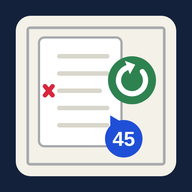
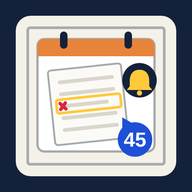
Snap a whole page, then box each mistake
- Add mode now takes one photo of the whole page and opens a crop
  screen: drag the yellow box or its corners (or draw a new box), with a
  live preview at the size it will show in review to check the text is
  readable. Box several mistakes on the same page in a row; picking
  several photos steps through them one by one.
- The page photo is stored once in a new pages store and shared by its
  cards; review can switch between the boxed part and the whole page.
  Deleting the last card of a page removes the page; backup and restore
  include pages; storage usage counts them.
- New icon combining the series board with the calendar, the boxed
  mistake on a page and the reminder bell.

Claude-Session: https://claude.ai/code/session_01Fix7dRGmohFDHfCyLWt37g

Changed region(s): [[0.1875, 0.1562, 0.8438, 0.8438]]

diff --git a/index.html b/index.html
@@ -127,6 +127,28 @@ body[data-mode="review"] #dockReview,body[data-mode="add"] #dockAdd,body[data-mo
 .rv-dock .btn{flex:1;min-height:58px;flex-direction:column;gap:0;font-size:17px}
 .rv-dock .btn small{font-size:11px;font-weight:500;opacity:.85}
 
+/* 追加：ページを撮る */
+.shotbig{display:flex;flex-direction:column;align-items:center;justify-content:center;gap:6px;min-height:150px;border:2px dashed var(--line);border-radius:12px;background:var(--bg);color:var(--ink);text-align:center;padding:12px}
+.shotbig .ic{width:40px;height:40px;color:var(--accent)}
+.shotbig b{font-size:17px}
+.shotbig small{font-size:12px;color:var(--muted);line-height:1.5}
+label.btn{cursor:pointer}
+/* 切り抜き */
+#cropper{position:fixed;inset:0;background:var(--bg);z-index:45;display:none;flex-direction:column;padding:calc(env(safe-area-inset-top,0px) + 8px) 0 0}
+#cropper.on{display:flex}
+.cropArea{flex:1;min-height:0;position:relative;margin:4px 6px 0;background:#13241A;border-radius:12px;overflow:hidden;touch-action:none}
+#cropImg{position:absolute;user-select:none;-webkit-user-drag:none;pointer-events:none}
+#cropBox{position:absolute;border:2px solid #FFE14D;box-shadow:0 0 0 9999px rgba(10,20,14,.55);touch-action:none;cursor:move}
+#cropBox .h{position:absolute;width:30px;height:30px;touch-action:none}
+#cropBox .h::after{content:"";position:absolute;width:14px;height:14px;background:#FFE14D;border-radius:4px;left:8px;top:8px}
+#cropBox .tl{left:-15px;top:-15px}#cropBox .tr{right:-15px;top:-15px}#cropBox .bl{left:-15px;bottom:-15px}#cropBox .br{right:-15px;bottom:-15px}
+.cropPrev{margin:8px 10px 0;background:var(--panel);border:1px solid var(--line);border-radius:12px;padding:8px}
+.prevHead{display:flex;align-items:baseline;gap:8px;font-size:13px;margin-bottom:6px}
+#cropInfo{margin-left:auto;font-size:12px;color:var(--muted);text-align:right}
+#cropInfo.warn{color:var(--danger);font-weight:700}
+.prevBox{max-height:22vh;overflow:auto;border-radius:6px;background:#fff;border:1px solid var(--line)}
+#cropCanvas{display:block;width:100%}
+#cropMemo{width:100%;margin-top:8px;border:1px solid var(--line);background:var(--bg);border-radius:10px;padding:9px 10px;font-size:16px;color:var(--ink)}
 /* シート・ダイアログ */
 .overlay{position:fixed;inset:0;background:rgba(10,30,18,.45);display:none;align-items:flex-end;justify-content:center;z-index:80}
 .overlay.on,.overlay.show{display:flex}
@@ -193,17 +215,14 @@ body[data-mode="review"] #dockReview,body[data-mode="add"] #dockAdd,body[data-mo
   <!-- 追加 -->
   <section data-pane="add">
     <div class="panel">
-      <div class="shot">
-        <label id="qLabel"><i class="ic" data-ic="camera"></i><span data-i="qPhoto"></span><input type="file" id="qFile" accept="image/*" capture="environment"></label>
-        <label id="aLabel"><i class="ic" data-ic="bulb"></i><span data-i="aPhoto"></span><input type="file" id="aFile" accept="image/*" capture="environment"></label>
-      </div>
+      <label class="shotbig" for="camFile"><i class="ic" data-ic="camera"></i><b data-i="shootPage"></b><small data-i="shootPageD"></small></label>
+      <input type="file" id="camFile" accept="image/*" capture="environment" hidden>
       <div class="field"><label for="subj" data-i="subject"></label>
         <input id="subj" list="subjList" autocomplete="off"><datalist id="subjList"></datalist>
         <div class="chips" id="subjChips"></div>
       </div>
-      <div class="field"><label for="memo" data-i="memo"></label><textarea id="memo" rows="2"></textarea></div>
     </div>
-    <p class="tip" data-i="addNote"></p>
+    <p class="tip" data-i="tipAdd"></p>
   </section>
 
   <!-- 一覧 -->
@@ -225,7 +244,7 @@ body[data-mode="review"] #dockReview,body[data-mode="add"] #dockAdd,body[data-mo
   </div>
   <div class="dockbar" id="dockAdd">
     <label class="btn"><i class="ic" data-ic="image"></i><span data-i="bulkShort"></span><input type="file" id="bulkFile" accept="image/*" multiple hidden></label>
-    <button class="btn strong" id="saveCard" disabled><i class="ic" data-ic="plus"></i><span data-i="saveShort"></span></button>
+    <label class="btn primary" for="camFile"><i class="ic" data-ic="camera"></i><span data-i="shootShort"></span></label>
   </div>
   <div class="dockbar" id="dockList">
     <select id="filter" aria-label="filter"></select>
@@ -247,6 +266,29 @@ body[data-mode="review"] #dockReview,body[data-mode="add"] #dockAdd,body[data-mo
   <div class="rv-dock"><div class="dockbar">
     <button class="btn ng" id="rvNg"><span data-i="ng"></span><small id="rvNgSub"></small></button>
     <button class="btn primary" id="rvOk"><span data-i="ok"></span><small id="rvOkSub"></small></button>
+  </div></div>
+</div>
+
+<!-- 切り抜き -->
+<div id="cropper">
+  <div class="rv-top">
+    <button class="btn icon" id="cropCancel" aria-label="close"><i class="ic" data-ic="x"></i></button>
+    <b data-i="cropTitle"></b><span class="num" id="cropCount" style="color:var(--muted)"></span>
+    <span class="sp"></span>
+    <button class="btn" id="cropRetake"><i class="ic" data-ic="camera"></i><span data-i="retake"></span></button>
+  </div>
+  <div class="cropArea" id="cropArea">
+    <img id="cropImg" alt="">
+    <div id="cropBox"><span class="h tl" data-h="tl"></span><span class="h tr" data-h="tr"></span><span class="h bl" data-h="bl"></span><span class="h br" data-h="br"></span></div>
+  </div>
+  <div class="cropPrev">
+    <div class="prevHead"><b data-i="cropPrev"></b><span id="cropInfo"></span></div>
+    <div class="prevBox"><canvas id="cropCanvas"></canvas></div>
+    <input id="cropMemo" data-ph="memoPh" autocomplete="off">
+  </div>
+  <div class="rv-dock"><div class="dockbar">
+    <button class="btn" id="cropDone"><span data-i="cropDone"></span></button>
+    <button class="btn primary" id="cropAdd"><i class="ic" data-ic="plus"></i><span data-i="cropAdd"></span></button>
   </div></div>
 </div>
 
@@ -319,7 +361,7 @@ document.querySelectorAll("[data-ic]").forEach(el=>{ el.innerHTML=ico(el.dataset
 
 /* ===== 多言語 ===== */
 const I18N={
- ja:{mReview:"復習",mAdd:"追加",mList:"一覧",qMenu:"写真の画質",qStdShort:"標準",qHighShort:"高画質",qEcoShort:"省容量",langLbl:"言語",helpLong:"使い方・このアプリについて",support:"このアプリを応援する",extraShort:"ぜんぶ見直す",bulkShort:"写真からまとめて",saveShort:"保存して追加",listReview:"この中で見直す",tipReview:"「ぜんぶ見直す」は予定に影響しません。間違えた直後の確認や、テスト前の総まとめに。",tipList:"写真をタップすると、科目やメモの直し・今すぐ復習・削除ができます。下のバーで科目ごとに絞り込めます。",todayText:"今日は{n}件です。写真を見て、まず自分で思い出してから答えを確認しましょう。",todayNone:"今日の復習はありません。間違えたページを「追加」から撮っておきましょう。",undone:"1つ前の採点を取り消しました",undoNone:"取り消せる採点がありません",delMasteredShort:"習得済みを削除（{n}件）",backup:"バックアップを保存",restore:"バックアップから復元",icsDaily:"毎日の復習リマインダーを登録",icsDates:"復習予定日だけ登録（今後30日）",badge:"ホーム画面アイコンに件数を表示",bulk:"写真ライブラリからまとめて追加",noCards:"まだ登録がありません。左上の「追加」から、間違えたページを撮りましょう。",how:"<b>① 追加</b>：間違えた問題のページを撮ります（答えのページも撮っておくと便利）。<br><b>② 復習</b>：決まった間隔（1日後→3日後→7日後…）で「復習」に出てきます。写真を見て、まず<b>自分で思い出して</b>から「できた／まだ」。「まだ」は翌日にもう一度出ます。押し間違えたら左上の「元に戻す」。<br><b>③ 一覧</b>：登録した写真の確認・修正・削除。<br><b>≡ メニュー</b>：リマインダー（iPhoneのカレンダーに毎日の通知を登録）、復習の間隔、写真の画質、バックアップ、言語など。",dueToday:"今日の復習",start:"復習をはじめる",extra:"ぜんぶ見直す（予定に影響しない）",sTotal:"登録数",sTomorrow:"明日",sMaster:"習得済み",
+ ja:{shootPage:"ページを撮る",shootPageD:"間違えた問題があるページを丸ごと撮ります。\nこのあと、間違えた所だけを囲みます。",shootShort:"ページを撮る",bulkShort:"写真から選ぶ",cropTitle:"間違えた所を囲む",retake:"撮り直す",cropPrev:"復習ではこの大きさで出ます",cropDone:"完了",cropAdd:"この範囲を追加",memoPh:"メモ（任意）例：関係代名詞 what",cropSmall:"文字が小さめです。範囲を狭めるか、近づいて撮り直してください",cropOk:"{w}×{h}",cropAdded:"追加しました（{n}件目）。続けて別の所も囲めます",cropNext:"次の写真へ",page:"ページ全体",showCrop:"間違えた所",tipAdd:"1ページに間違いが何か所あっても、続けて囲んで追加できます。ページの写真は1枚だけ保存されるので容量は増えません。",mReview:"復習",mAdd:"追加",mList:"一覧",qMenu:"写真の画質",qStdShort:"標準",qHighShort:"高画質",qEcoShort:"省容量",langLbl:"言語",helpLong:"使い方・このアプリについて",support:"このアプリを応援する",extraShort:"ぜんぶ見直す",saveShort:"保存して追加",listReview:"この中で見直す",tipReview:"「ぜんぶ見直す」は予定に影響しません。間違えた直後の確認や、テスト前の総まとめに。",tipList:"写真をタップすると、科目やメモの直し・今すぐ復習・削除ができます。下のバーで科目ごとに絞り込めます。",todayText:"今日は{n}件です。写真を見て、まず自分で思い出してから答えを確認しましょう。",todayNone:"今日の復習はありません。間違えたページを「追加」から撮っておきましょう。",undone:"1つ前の採点を取り消しました",undoNone:"取り消せる採点がありません",delMasteredShort:"習得済みを削除（{n}件）",backup:"バックアップを保存",restore:"バックアップから復元",icsDaily:"毎日の復習リマインダーを登録",icsDates:"復習予定日だけ登録（今後30日）",badge:"ホーム画面アイコンに件数を表示",bulk:"写真ライブラリからまとめて追加",noCards:"まだ登録がありません。左上の「追加」から、間違えたページを撮りましょう。",how:"<b>① 追加</b>：間違えた問題のページを撮ります（答えのページも撮っておくと便利）。<br><b>② 復習</b>：決まった間隔（1日後→3日後→7日後…）で「復習」に出てきます。写真を見て、まず<b>自分で思い出して</b>から「できた／まだ」。「まだ」は翌日にもう一度出ます。押し間違えたら左上の「元に戻す」。<br><b>③ 一覧</b>：登録した写真の確認・修正・削除。<br><b>≡ メニュー</b>：リマインダー（iPhoneのカレンダーに毎日の通知を登録）、復習の間隔、写真の画質、バックアップ、言語など。",dueToday:"今日の復習",start:"復習をはじめる",extra:"ぜんぶ見直す（予定に影響しない）",sTotal:"登録数",sTomorrow:"明日",sMaster:"習得済み",
   howTitle:"使い方",
   addTitle:"間違えたページを撮る",qPhoto:"問題（必須）",aPhoto:"答え（任意）",subject:"科目・教材",memo:"メモ（どこで間違えたか等）",save:"保存して復習に追加",
   addNote:"最初の復習は明日です。写真はこの端末の中だけに保存されます。",
@@ -334,7 +376,7 @@ const I18N={
   level:"段階",nextDue:"次回",del:"削除",confirmDel:"このカードを削除しますか？",reset:"最初から",reviewNow:"今すぐ復習",edit:"保存",
   restored:"{n}件を復元しました",badgeOk:"アイコンに件数を表示します",badgeNg:"この環境では使えません（iPhoneはホーム画面に追加して開いてください）",
   calTitle:"暗記の復習（45 Recall）",calDesc:"今日の復習を開く",count:"{a} / {b}",today:"今日",days:"{n}日後",overdue:"期限切れ"},
- en:{mReview:"Review",mAdd:"Add",mList:"Cards",qMenu:"Photo quality",qStdShort:"Standard",qHighShort:"High",qEcoShort:"Saver",langLbl:"Language",helpLong:"How to use / About",support:"Support this app",extraShort:"Browse all",bulkShort:"From photos",saveShort:"Save card",listReview:"Review these",tipReview:"“Browse all” doesn't change the schedule — good for a quick check or a final run-through before a test.",tipList:"Tap a photo to edit the subject or note, review it now, or delete it. Filter by subject in the bar below.",todayText:"{n} cards today. Look at each photo and recall it yourself before checking the answer.",todayNone:"Nothing due today. Snap pages you got wrong from “Add”.",undone:"Undid the last answer",undoNone:"Nothing to undo",delMasteredShort:"Delete mastered ({n})",backup:"Save backup",restore:"Restore backup",icsDaily:"Add daily review reminder",icsDates:"Add only review days (next 30 days)",badge:"Show count on home-screen icon",bulk:"Add several from photo library",noCards:"No cards yet. Tap “Add” at the top left to snap a page you got wrong.",how:"<b>① Add</b>: snap the page you got wrong (an answer photo helps too).<br><b>② Review</b>: it comes back on a spaced schedule (1 day → 3 → 7 …). Recall it <b>yourself first</b>, then tap “Got it / Not yet”. “Not yet” brings it back tomorrow. Tapped the wrong one? Use Undo at the top left.<br><b>③ Cards</b>: check, edit or delete your photos.<br><b>≡ Menu</b>: reminders (a daily calendar alert), review intervals, photo quality, backup, language and more.",dueToday:"Due today",start:"Start review",extra:"Browse all (won't change schedule)",sTotal:"Cards",sTomorrow:"Tomorrow",sMaster:"Mastered",
+ en:{shootPage:"Snap the page",shootPageD:"Take a photo of the whole page with your mistake.\nNext, you'll box just the part you got wrong.",shootShort:"Snap page",bulkShort:"From photos",cropTitle:"Box your mistake",retake:"Retake",cropPrev:"This is how it shows in review",cropDone:"Done",cropAdd:"Add this part",memoPh:"Note (optional), e.g. relative pronoun what",cropSmall:"Text looks small. Tighten the box or retake closer",cropOk:"{w}×{h}",cropAdded:"Added (card {n}). You can box another part",cropNext:"Next photo",page:"Whole page",showCrop:"Mistake",tipAdd:"Box as many mistakes on a page as you like. The page photo is stored once, so it doesn't use extra space.",mReview:"Review",mAdd:"Add",mList:"Cards",qMenu:"Photo quality",qStdShort:"Standard",qHighShort:"High",qEcoShort:"Saver",langLbl:"Language",helpLong:"How to use / About",support:"Support this app",extraShort:"Browse all",saveShort:"Save card",listReview:"Review these",tipReview:"“Browse all” doesn't change the schedule — good for a quick check or a final run-through before a test.",tipList:"Tap a photo to edit the subject or note, review it now, or delete it. Filter by subject in the bar below.",todayText:"{n} cards today. Look at each photo and recall it yourself before checking the answer.",todayNone:"Nothing due today. Snap pages you got wrong from “Add”.",undone:"Undid the last answer",undoNone:"Nothing to undo",delMasteredShort:"Delete mastered ({n})",backup:"Save backup",restore:"Restore backup",icsDaily:"Add daily review reminder",icsDates:"Add only review days (next 30 days)",badge:"Show count on home-screen icon",bulk:"Add several from photo library",noCards:"No cards yet. Tap “Add” at the top left to snap a page you got wrong.",how:"<b>① Add</b>: snap the page you got wrong (an answer photo helps too).<br><b>② Review</b>: it comes back on a spaced schedule (1 day → 3 → 7 …). Recall it <b>yourself first</b>, then tap “Got it / Not yet”. “Not yet” brings it back tomorrow. Tapped the wrong one? Use Undo at the top left.<br><b>③ Cards</b>: check, edit or delete your photos.<br><b>≡ Menu</b>: reminders (a daily calendar alert), review intervals, photo quality, backup, language and more.",dueToday:"Due today",start:"Start review",extra:"Browse all (won't change schedule)",sTotal:"Cards",sTomorrow:"Tomorrow",sMaster:"Mastered",
   howTitle:"How to use",
   addTitle:"Snap the page you missed",qPhoto:"Question (required)",aPhoto:"Answer (optional)",subject:"Subject / book",memo:"Note (what you got wrong)",save:"Save & schedule",
   addNote:"First review is tomorrow. Photos stay on this device only.",
@@ -349,7 +391,7 @@ const I18N={
   level:"Stage",nextDue:"Next",del:"Delete",confirmDel:"Delete this card?",reset:"Restart",reviewNow:"Review now",edit:"Save",
   restored:"Restored {n} cards",badgeOk:"Count will show on the icon",badgeNg:"Not available here (on iPhone, open from the home screen)",
   calTitle:"Review time (45 Recall)",calDesc:"Open today's review",count:"{a} / {b}",today:"today",days:"in {n}d",overdue:"overdue"},
- zh:{mReview:"复习",mAdd:"添加",mList:"列表",qMenu:"照片画质",qStdShort:"标准",qHighShort:"高画质",qEcoShort:"省空间",langLbl:"语言",helpLong:"使用说明・关于本应用",support:"支持这个应用",extraShort:"全部浏览",bulkShort:"从相册添加",saveShort:"保存并添加",listReview:"复习这些",tipReview:"“全部浏览”不影响复习计划，适合刚做错时确认或考试前总复习。",tipList:"点照片可修改科目和备注、立即复习或删除。可在下方栏按科目筛选。",todayText:"今天有{n}张。看照片时先自己回想，再看答案。",todayNone:"今天没有要复习的。请从“添加”拍下做错的页面。",undone:"已撤销上一次评分",undoNone:"没有可撤销的评分",delMasteredShort:"删除已掌握（{n}张）",backup:"保存备份",restore:"从备份恢复",icsDaily:"添加每日复习提醒",icsDates:"只添加复习日（未来30天）",badge:"在主屏幕图标显示数量",bulk:"从相册批量添加",noCards:"还没有卡片。请点左上的“添加”拍下做错的页面。",how:"<b>① 添加</b>：拍下做错的题目（顺便拍下答案更方便）。<br><b>② 复习</b>：按间隔（1天→3天→7天…）出现在“复习”中。先<b>自己回想</b>，再点“会了／还不会”。“还不会”明天再出现。点错了可用左上的“撤销”。<br><b>③ 列表</b>：查看、修改、删除照片。<br><b>≡ 菜单</b>：提醒（在日历登记每日通知）、复习间隔、照片画质、备份、语言等。",dueToday:"今日复习",start:"开始复习",extra:"全部浏览（不影响计划）",sTotal:"总数",sTomorrow:"明天",sMaster:"已掌握",
+ zh:{shootPage:"拍下整页",shootPageD:"把有错题的整页拍下来。\n接着只框出做错的地方。",shootShort:"拍下整页",bulkShort:"从相册选择",cropTitle:"框出做错的地方",retake:"重拍",cropPrev:"复习时会以这个大小显示",cropDone:"完成",cropAdd:"添加这个范围",memoPh:"备注（可选）例：关系代词 what",cropSmall:"文字偏小。请缩小范围或靠近重拍",cropOk:"{w}×{h}",cropAdded:"已添加（第{n}张）。可继续框出其他地方",cropNext:"下一张照片",page:"整页",showCrop:"做错的地方",tipAdd:"一页有几处错都可以连续框选添加。整页照片只保存一张，不会多占空间。",mReview:"复习",mAdd:"添加",mList:"列表",qMenu:"照片画质",qStdShort:"标准",qHighShort:"高画质",qEcoShort:"省空间",langLbl:"语言",helpLong:"使用说明・关于本应用",support:"支持这个应用",extraShort:"全部浏览",saveShort:"保存并添加",listReview:"复习这些",tipReview:"“全部浏览”不影响复习计划，适合刚做错时确认或考试前总复习。",tipList:"点照片可修改科目和备注、立即复习或删除。可在下方栏按科目筛选。",todayText:"今天有{n}张。看照片时先自己回想，再看答案。",todayNone:"今天没有要复习的。请从“添加”拍下做错的页面。",undone:"已撤销上一次评分",undoNone:"没有可撤销的评分",delMasteredShort:"删除已掌握（{n}张）",backup:"保存备份",restore:"从备份恢复",icsDaily:"添加每日复习提醒",icsDates:"只添加复习日（未来30天）",badge:"在主屏幕图标显示数量",bulk:"从相册批量添加",noCards:"还没有卡片。请点左上的“添加”拍下做错的页面。",how:"<b>① 添加</b>：拍下做错的题目（顺便拍下答案更方便）。<br><b>② 复习</b>：按间隔（1天→3天→7天…）出现在“复习”中。先<b>自己回想</b>，再点“会了／还不会”。“还不会”明天再出现。点错了可用左上的“撤销”。<br><b>③ 列表</b>：查看、修改、删除照片。<br><b>≡ 菜单</b>：提醒（在日历登记每日通知）、复习间隔、照片画质、备份、语言等。",dueToday:"今日复习",start:"开始复习",extra:"全部浏览（不影响计划）",sTotal:"总数",sTomorrow:"明天",sMaster:"已掌握",
   howTitle:"使用方法",
   addTitle:"拍下做错的页面",qPhoto:"题目（必填）",aPhoto:"答案（可选）",subject:"科目・教材",memo:"备注（错在哪里等）",save:"保存并加入复习",
   addNote:"首次复习在明天。照片只保存在本设备中。",
@@ -364,7 +406,7 @@ const I18N={
   level:"阶段",nextDue:"下次",del:"删除",confirmDel:"删除这张卡片吗？",reset:"重新开始",reviewNow:"立即复习",edit:"保存",
   restored:"已恢复 {n} 张",badgeOk:"将在图标上显示数量",badgeNg:"此环境不可用（iPhone 请从主屏幕打开）",
   calTitle:"背诵复习（45 Recall）",calDesc:"打开今日复习",count:"{a} / {b}",today:"今天",days:"{n}天后",overdue:"已过期"},
- "zh-Hant":{mReview:"複習",mAdd:"新增",mList:"列表",qMenu:"照片畫質",qStdShort:"標準",qHighShort:"高畫質",qEcoShort:"省空間",langLbl:"語言",helpLong:"使用說明・關於本應用",support:"支援這個應用",extraShort:"全部瀏覽",bulkShort:"從相簿新增",saveShort:"儲存並新增",listReview:"複習這些",tipReview:"「全部瀏覽」不影響複習計劃，適合剛做錯時確認或考試前總複習。",tipList:"點照片可修改科目和備註、立即複習或刪除。可在下方欄按科目篩選。",todayText:"今天有{n}張。看照片時先自己回想，再看答案。",todayNone:"今天沒有要複習的。請從「新增」拍下做錯的頁面。",undone:"已復原上一次評分",undoNone:"沒有可復原的評分",delMasteredShort:"刪除已掌握（{n}張）",backup:"儲存備份",restore:"從備份恢復",icsDaily:"新增每日複習提醒",icsDates:"只新增複習日（未來30天）",badge:"在主螢幕圖示顯示數量",bulk:"從相簿批次新增",noCards:"還沒有卡片。請點左上的「新增」拍下做錯的頁面。",how:"<b>① 新增</b>：拍下做錯的題目（順便拍下答案更方便）。<br><b>② 複習</b>：按間隔（1天→3天→7天…）出現在「複習」中。先<b>自己回想</b>，再點「會了／還不會」。「還不會」明天再出現。點錯了可用左上的「復原」。<br><b>③ 列表</b>：檢視、修改、刪除照片。<br><b>≡ 選單</b>：提醒（在日曆登記每日通知）、複習間隔、照片畫質、備份、語言等。",dueToday:"今日複習",start:"開始複習",extra:"全部瀏覽（不影響計劃）",sTotal:"總數",sTomorrow:"明天",sMaster:"已掌握",
+ "zh-Hant":{shootPage:"拍下整頁",shootPageD:"把有錯題的整頁拍下來。\n接著只框出做錯的地方。",shootShort:"拍下整頁",bulkShort:"從相簿選擇",cropTitle:"框出做錯的地方",retake:"重拍",cropPrev:"複習時會以這個大小顯示",cropDone:"完成",cropAdd:"新增這個範圍",memoPh:"備註（可選）例：關係代詞 what",cropSmall:"文字偏小。請縮小範圍或靠近重拍",cropOk:"{w}×{h}",cropAdded:"已新增（第{n}張）。可繼續框出其他地方",cropNext:"下一張照片",page:"整頁",showCrop:"做錯的地方",tipAdd:"一頁有幾處錯都可以連續框選新增。整頁照片只儲存一張，不會多佔空間。",mReview:"複習",mAdd:"新增",mList:"列表",qMenu:"照片畫質",qStdShort:"標準",qHighShort:"高畫質",qEcoShort:"省空間",langLbl:"語言",helpLong:"使用說明・關於本應用",support:"支援這個應用",extraShort:"全部瀏覽",saveShort:"儲存並新增",listReview:"複習這些",tipReview:"「全部瀏覽」不影響複習計劃，適合剛做錯時確認或考試前總複習。",tipList:"點照片可修改科目和備註、立即複習或刪除。可在下方欄按科目篩選。",todayText:"今天有{n}張。看照片時先自己回想，再看答案。",todayNone:"今天沒有要複習的。請從「新增」拍下做錯的頁面。",undone:"已復原上一次評分",undoNone:"沒有可復原的評分",delMasteredShort:"刪除已掌握（{n}張）",backup:"儲存備份",restore:"從備份恢復",icsDaily:"新增每日複習提醒",icsDates:"只新增複習日（未來30天）",badge:"在主螢幕圖示顯示數量",bulk:"從相簿批次新增",noCards:"還沒有卡片。請點左上的「新增」拍下做錯的頁面。",how:"<b>① 新增</b>：拍下做錯的題目（順便拍下答案更方便）。<br><b>② 複習</b>：按間隔（1天→3天→7天…）出現在「複習」中。先<b>自己回想</b>，再點「會了／還不會」。「還不會」明天再出現。點錯了可用左上的「復原」。<br><b>③ 列表</b>：檢視、修改、刪除照片。<br><b>≡ 選單</b>：提醒（在日曆登記每日通知）、複習間隔、照片畫質、備份、語言等。",dueToday:"今日複習",start:"開始複習",extra:"全部瀏覽（不影響計劃）",sTotal:"總數",sTomorrow:"明天",sMaster:"已掌握",
   howTitle:"使用方法",
   addTitle:"拍下做錯的頁面",qPhoto:"題目（必填）",aPhoto:"答案（可選）",subject:"科目・教材",memo:"備註（錯在哪裡等）",save:"儲存並加入複習",
   addNote:"首次複習在明天。照片只儲存在本裝置中。",
@@ -388,6 +430,7 @@ const $=s=>document.querySelector(s);
 function applyLang(){
   document.documentElement.lang=lang;
   document.querySelectorAll("[data-i]").forEach(el=>el.textContent=t(el.dataset.i));
+  document.querySelectorAll("[data-ph]").forEach(el=>el.placeholder=t(el.dataset.ph));
   $("#howText").innerHTML=t("how"); $("#lang").value=lang;
   refreshAll();
 }
@@ -396,8 +439,10 @@ function applyLang(){
 let db;
 function openDB(){
   return new Promise((res,rej)=>{
-    const r=indexedDB.open("photorecall",1);
-    r.onupgradeneeded=()=>r.result.createObjectStore("cards",{keyPath:"id"});
+    const r=indexedDB.open("photorecall",2);
+    r.onupgradeneeded=()=>{ const d=r.result;
+      if(!d.objectStoreNames.contains("cards")) d.createObjectStore("cards",{keyPath:"id"});
+      if(!d.objectStoreNames.contains("pages")) d.createObjectStore("pages",{keyPath:"id"}); };
     r.onsuccess=()=>{db=r.result;res()}; r.onerror=()=>rej(r.error);
   });
 }
@@ -405,6 +450,13 @@ const tx=(mode)=>db.transaction("cards",mode).objectStore("cards");
 const dbAll=()=>new Promise(r=>{const q=tx("readonly").getAll(); q.onsuccess=()=>r(q.result||[]);});
 const dbPut=c=>new Promise((r,j)=>{const q=tx("readwrite").put(c); q.onsuccess=()=>r(); q.onerror=()=>j(q.error);});
 const dbDel=id=>new Promise(r=>{const q=tx("readwrite").delete(id); q.onsuccess=()=>r();});
+const ps=mode=>db.transaction("pages",mode).objectStore("pages");
+const pagePut=p=>new Promise((r,j)=>{const q=ps("readwrite").put(p); q.onsuccess=()=>r(); q.onerror=()=>j(q.error);});
+const pageGet=id=>new Promise(r=>{ if(!id) return r(null); const q=ps("readonly").get(id); q.onsuccess=()=>r(q.result||null); q.onerror=()=>r(null);});
+const pageAll=()=>new Promise(r=>{const q=ps("readonly").getAll(); q.onsuccess=()=>r(q.result||[]);});
+const pageDel=id=>new Promise(r=>{const q=ps("readwrite").delete(id); q.onsuccess=()=>r(); q.onerror=()=>r();});
+// カードを消すとき、そのページを使うカードがもう無ければページも消す
+async function delCard(c){ await dbDel(c.id); if(c.pageId){ const left=(await dbAll()).some(x=>x.pageId===c.pageId); if(!left) await pageDel(c.pageId); } }
 
 /* ===== 日付・スケジュール ===== */
 const DAY=86400000;
@@ -452,7 +504,8 @@ async function thumbOf(blob){
 
 /* ===== 状態 ===== */
 let cards=[];
-async function reload(){ cards=await dbAll(); cards.sort((a,b)=>b.created-a.created); refreshAll(); }
+let pageBytes=0;
+async function reload(){ cards=await dbAll(); try{ pageBytes=(await pageAll()).reduce((a,p)=>a+(p.blob?p.blob.size:0),0); }catch(e){} cards.sort((a,b)=>b.created-a.created); refreshAll(); }
 function refreshAll(){
   const due=cards.filter(isDue);
   $("#dueNum").textContent=due.length;
@@ -470,7 +523,7 @@ function refreshAll(){
   renderSubjects(); renderFilter(); renderGrid();
   $("#listReview").disabled=!filtered().length; $("#undoBtn").disabled=!gradeStack.length;
   $("#intervals").value=intervals().join(",");
-  const bytes=cards.reduce((a,c)=>a+(c.q?c.q.size:0)+(c.a?c.a.size:0)+(c.thumb?c.thumb.length*0.75:0),0);
+  const bytes=cards.reduce((a,c)=>a+(c.q?c.q.size:0)+(c.a?c.a.size:0)+(c.thumb?c.thumb.length*0.75:0),0)+pageBytes;
   $("#usage").textContent=t("usage",{n:cards.length,s:(bytes/1048576).toFixed(1)});
   const nm=cards.filter(c=>c.mastered).length; $("#delMastered").innerHTML=`<i class="ic">${ico("trash")}</i><span></span><span class="v"></span>`; $("#delMastered").children[1].textContent=t("delMasteredShort",{n:nm}); $("#delMastered").children[2].textContent=(bytes/1048576).toFixed(1)+" MB"; $("#delMastered").disabled=!nm;
   $("#qSel").value=ls.get("pr_q")||"std";
@@ -494,31 +547,110 @@ $("#helpBtn").onclick=()=>openOv("#helpSheet");
 $("#restoreFile").addEventListener("change",()=>openMenu(false));
 
 /* ===== 追加 ===== */
-let qBlob=null,aBlob=null;
-$("#qFile").onchange=async e=>{const f=e.target.files[0]; e.target.value=""; if(!f) return; qBlob=await compress(f); preview("#qLabel",qBlob); $("#saveCard").disabled=false;};
-$("#aFile").onchange=async e=>{const f=e.target.files[0]; e.target.value=""; if(!f) return; aBlob=await compress(f); preview("#aLabel",aBlob);};
-function preview(sel,blob){
-  const l=$(sel); let img=l.querySelector("img"); if(!img){img=document.createElement("img"); l.appendChild(img);}
-  if(img.src) URL.revokeObjectURL(img.src); img.src=URL.createObjectURL(blob);
-}
-function newCard(q,a,thumb){
+// 画質：切り抜き [長辺, 品質, 白黒] / ページ全体は qset() を使う
+const CROPQ={std:[1600,0.85,false],high:[2200,0.9,false],eco:[1200,0.72,true]};
+function newCard(q,thumb,pageId,memo){
   return {id:Date.now().toString(36)+Math.random().toString(36).slice(2,7),created:Date.now(),
-    subject:$("#subj").value.trim(),memo:$("#memo").value.trim(),q,a:a||null,thumb,level:0,due:startOfDay()+intervals()[0]*DAY,mastered:false,reviews:0};
+    subject:$("#subj").value.trim(),memo:memo||"",q,a:null,pageId,thumb,level:0,due:startOfDay()+intervals()[0]*DAY,mastered:false,reviews:0};
 }
-$("#saveCard").onclick=async()=>{
-  if(!qBlob) return;
-  $("#saveCard").disabled=true;
-  await dbPut(newCard(qBlob,aBlob,await thumbOf(qBlob)));
-  ls.set("pr_lastSubj",$("#subj").value.trim());
-  qBlob=aBlob=null; $("#memo").value="";
-  document.querySelectorAll(".shot img").forEach(i=>{URL.revokeObjectURL(i.src); i.remove();});
-  toast(t("saved")); await reload();
+let cropQueue=[], crop=null;   // crop: {img, file, pageId, added, box:{x,y,w,h}(元画像の座標)}
+$("#camFile").onchange=e=>{ const f=[...e.target.files]; e.target.value=""; if(f.length) startCrop(f); };
+$("#bulkFile").onchange=e=>{ const f=[...e.target.files]; e.target.value=""; if(f.length) startCrop(f); };
+async function startCrop(files){ cropQueue=files.slice(); cropQueue.total=files.length; await nextCrop(); }
+async function nextCrop(){
+  const f=cropQueue.shift(); if(!f){ closeCrop(); return; }
+  let img; try{ img=await loadImage(f); }catch(e){ toast("Error"); return nextCrop(); }
+  const W=img.naturalWidth, H=img.naturalHeight;
+  crop={img,file:f,pageId:null,added:0,box:{x:W*.1,y:H*.35,w:W*.8,h:H*.22}};
+  $("#cropImg").src=img.src; $("#cropMemo").value="";
+  const n=cropQueue.total-cropQueue.length;
+  $("#cropCount").textContent=cropQueue.total>1?` ${n}/${cropQueue.total}`:"";
+  $("#cropDone").lastChild.textContent=t(cropQueue.length?"cropNext":"cropDone");
+  $("#cropper").classList.add("on");
+  requestAnimationFrame(layoutCrop);
+}
+function closeCrop(){ $("#cropper").classList.remove("on"); crop=null; cropQueue=[]; reload(); }
+// 表示上の位置と元画像の座標の変換
+let view={s:1,ox:0,oy:0};
+function layoutCrop(){
+  if(!crop) return;
+  const a=$("#cropArea").getBoundingClientRect(), W=crop.img.naturalWidth, H=crop.img.naturalHeight;
+  const sc=Math.min(a.width/W,a.height/H); view={s:sc,ox:(a.width-W*sc)/2,oy:(a.height-H*sc)/2};
+  const im=$("#cropImg"); im.style.width=W*sc+"px"; im.style.height=H*sc+"px"; im.style.left=view.ox+"px"; im.style.top=view.oy+"px";
+  drawBox();
+}
+window.addEventListener("resize",()=>{ if(crop) layoutCrop(); });
+function drawBox(){
+  const b=crop.box, el=$("#cropBox");
+  el.style.left=view.ox+b.x*view.s+"px"; el.style.top=view.oy+b.y*view.s+"px"; el.style.width=b.w*view.s+"px"; el.style.height=b.h*view.s+"px";
+  drawPreview();
+}
+function cropOpts(){ return CROPQ[ls.get("pr_q")]||CROPQ.std; }
+function cropCanvas(maxSide){
+  const b=crop.box, [mx,,gray]=cropOpts(), k=Math.min(1,(maxSide||mx)/Math.max(b.w,b.h));
+  const c=document.createElement("canvas"); c.width=Math.max(1,Math.round(b.w*k)); c.height=Math.max(1,Math.round(b.h*k));
+  const ctx=c.getContext("2d"); ctx.drawImage(crop.img,b.x,b.y,b.w,b.h,0,0,c.width,c.height);
+  if(gray){ const d=ctx.getImageData(0,0,c.width,c.height),a=d.data; for(let i=0;i<a.length;i+=4){ const y=a[i]*.299+a[i+1]*.587+a[i+2]*.114; a[i]=a[i+1]=a[i+2]=y; } ctx.putImageData(d,0,0); }
+  return c;
+}
+// 復習画面と同じ「画面幅に合わせた大きさ」で見せて、文字が読めるか確かめてもらう
+let prevTimer=null;
+function drawPreview(){
+  clearTimeout(prevTimer); prevTimer=setTimeout(()=>{
+    if(!crop) return;
+    const src=cropCanvas(), cv=$("#cropCanvas"), dpr=window.devicePixelRatio||1, cssW=$("#cropCanvas").parentElement.clientWidth||300;
+    const reviewW=Math.min(window.innerWidth,720)-28;            // 復習画面での表示幅
+    const k=Math.min(1,reviewW*dpr/src.width);                    // 実際に見える解像度
+    cv.width=Math.round(src.width*k); cv.height=Math.round(src.height*k);
+    cv.getContext("2d").drawImage(src,0,0,cv.width,cv.height);
+    cv.style.width=cssW+"px";
+    // 文字の大きさの目安：切り抜きの幅が狭いほど拡大されて読みやすい。元画像で幅が広すぎる（=縮小される）と警告
+    const shrink=src.width/(reviewW*dpr), info=$("#cropInfo");
+    const small=crop.box.w/crop.img.naturalWidth>0.85&&crop.box.h/crop.img.naturalHeight>0.5;
+    info.textContent=small?t("cropSmall"):t("cropOk",{w:src.width,h:src.height}); info.classList.toggle("warn",small||shrink>2.6);
+    if(shrink>2.6) info.textContent=t("cropSmall");
+  },60);
+}
+// 枠の移動・大きさ変更
+(()=>{
+  const box=$("#cropBox"); let drag=null;
+  const pt=e=>({x:(e.clientX-$("#cropArea").getBoundingClientRect().left-view.ox)/view.s,y:(e.clientY-$("#cropArea").getBoundingClientRect().top-view.oy)/view.s});
+  box.addEventListener("pointerdown",e=>{ e.preventDefault(); box.setPointerCapture(e.pointerId); drag={h:e.target.dataset.h||"move",p:pt(e),b:{...crop.box}}; });
+  box.addEventListener("pointermove",e=>{
+    if(!drag) return; const p=pt(e), dx=p.x-drag.p.x, dy=p.y-drag.p.y, b={...drag.b}, W=crop.img.naturalWidth, H=crop.img.naturalHeight, min=40/view.s;
+    if(drag.h==="move"){ b.x=Math.min(Math.max(0,b.x+dx),W-b.w); b.y=Math.min(Math.max(0,b.y+dy),H-b.h); }
+    else{
+      if(drag.h.includes("l")){ const nx=Math.min(Math.max(0,b.x+dx),b.x+b.w-min); b.w+=b.x-nx; b.x=nx; }
+      if(drag.h.includes("r")){ b.w=Math.min(Math.max(min,b.w+dx),W-b.x); }
+      if(drag.h.includes("t")){ const ny=Math.min(Math.max(0,b.y+dy),b.y+b.h-min); b.h+=b.y-ny; b.y=ny; }
+      if(drag.h.includes("b")){ b.h=Math.min(Math.max(min,b.h+dy),H-b.y); }
+    }
+    crop.box=b; drawBox();
+  });
+  const end=()=>{ drag=null; }; box.addEventListener("pointerup",end); box.addEventListener("pointercancel",end);
+  // 枠の外をなぞると、新しく囲み直せる
+  const area=$("#cropArea");
+  area.addEventListener("pointerdown",e=>{ if(e.target!==area&&e.target!==$("#cropImg")) return; e.preventDefault(); area.setPointerCapture(e.pointerId); const p=pt(e); drag={h:"new",o:p}; });
+  area.addEventListener("pointermove",e=>{ if(!drag||drag.h!=="new") return; const p=pt(e), W=crop.img.naturalWidth, H=crop.img.naturalHeight;
+    const x0=Math.max(0,Math.min(drag.o.x,p.x)), y0=Math.max(0,Math.min(drag.o.y,p.y)), x1=Math.min(W,Math.max(drag.o.x,p.x)), y1=Math.min(H,Math.max(drag.o.y,p.y));
+    if(x1-x0>20/view.s&&y1-y0>20/view.s){ crop.box={x:x0,y:y0,w:x1-x0,h:y1-y0}; drawBox(); } });
+  area.addEventListener("pointerup",end); area.addEventListener("pointercancel",end);
+})();
+$("#cropAdd").onclick=async()=>{
+  if(!crop) return;
+  $("#cropAdd").disabled=true;
+  try{
+    const [,q]=cropOpts(), c=cropCanvas(), blob=await new Promise(r=>c.toBlob(r,"image/jpeg",q));
+    if(!crop.pageId){ crop.pageId="p"+Date.now().toString(36)+Math.random().toString(36).slice(2,6); await pagePut({id:crop.pageId,blob:await compress(crop.file),created:Date.now()}); }
+    await dbPut(newCard(blob,await thumbOf(blob),crop.pageId,$("#cropMemo").value.trim()));
+    ls.set("pr_lastSubj",$("#subj").value.trim());
+    crop.added++; $("#cropMemo").value="";
+    toast(t("cropAdded",{n:crop.added}));
+  }finally{ $("#cropAdd").disabled=false; }
 };
-$("#bulkFile").onchange=async e=>{
-  const files=[...e.target.files]; e.target.value=""; if(!files.length) return;
-  for(const f of files){ const b=await compress(f); await dbPut(newCard(b,null,await thumbOf(b))); }
-  toast(t("saved")); await reload();
-};
+$("#cropDone").onclick=()=>{ if(cropQueue.length) nextCrop(); else closeCrop(); };
+$("#cropCancel").onclick=()=>closeCrop();
+$("#cropRetake").onclick=()=>{ cropQueue=[]; $("#cropper").classList.remove("on"); crop=null; $("#camFile").click(); };
 function renderSubjects(){
   const list=subjects();
   $("#subjList").innerHTML=list.map(s=>`<option value="${esc(s)}">`).join("");
@@ -550,8 +682,9 @@ function renderGrid(){
     b.onclick=()=>openSheet(c); g.appendChild(b);
   });
 }
-function openSheet(c){
-  const qURL=URL.createObjectURL(c.q), aURL=c.a?URL.createObjectURL(c.a):null;
+async function openSheet(c){
+  const pg=c.a?null:await pageGet(c.pageId);
+  const qURL=URL.createObjectURL(c.q), aURL=c.a?URL.createObjectURL(c.a):(pg?URL.createObjectURL(pg.blob):null);
   const iv=intervals();
   $("#sheetInner").innerHTML=`
     <img src="${qURL}" alt="">${aURL?`<img src="${aURL}" alt="">`:""}
@@ -567,7 +700,7 @@ function openSheet(c){
   $("#eSave").onclick=async()=>{c.subject=$("#eSubj").value.trim(); c.memo=$("#eMemo").value.trim(); await dbPut(c); close(); reload();};
   $("#eNow").onclick=()=>{close(); startReview([c],true);};
   $("#eReset").onclick=async()=>{c.level=0;c.mastered=false;c.due=startOfDay()+DAY; await dbPut(c); close(); reload();};
-  $("#eDel").onclick=async()=>{if(!confirm(t("confirmDel"))) return; await dbDel(c.id); close(); reload();};
+  $("#eDel").onclick=async()=>{if(!confirm(t("confirmDel"))) return; await delCard(c); close(); reload();};
 }
 
 /* ===== 復習 ===== */
@@ -586,7 +719,7 @@ function showCard(){
   const c=queue[qi]; showingAns=false;
   $("#rvCount").textContent=t("count",{a:qi+1,b:queue.length});
   setImg(c.q);
-  $("#rvAnswer").style.display=c.a?"":"none"; $("#rvAnswer").textContent=t("showAns");
+  $("#rvAnswer").style.display=(c.a||c.pageId)?"":"none"; $("#rvAnswer").textContent=t(c.a?"showAns":"page");
   $("#rvMeta").innerHTML=(c.subject?`<span class="subj">${esc(c.subject)}</span>`:"")+esc(c.memo||"");
   $("#rvOkSub").textContent=practice?"":nextInfo(c,true).label;
   $("#rvNgSub").textContent=practice?"":nextInfo(c,false).label;
@@ -596,7 +729,13 @@ function setImg(blob){
   const img=$("#rvImg"); img.classList.remove("zoom"); img.src=curURL; $("#rvImgWrap").scrollTo(0,0);
 }
 $("#rvImg").ondblclick=e=>e.target.classList.toggle("zoom");
-$("#rvAnswer").onclick=()=>{const c=queue[qi]; showingAns=!showingAns; setImg(showingAns?c.a:c.q); $("#rvAnswer").textContent=t(showingAns?"showQ":"showAns");};
+$("#rvAnswer").onclick=async()=>{
+  const c=queue[qi]; showingAns=!showingAns;
+  if(c.a){ setImg(showingAns?c.a:c.q); $("#rvAnswer").textContent=t(showingAns?"showQ":"showAns"); return; }
+  const pg=showingAns?await pageGet(c.pageId):null;
+  setImg(pg?pg.blob:c.q); if(!pg) showingAns=false;
+  $("#rvAnswer").textContent=t(showingAns?"showCrop":"page");
+};
 $("#rvOk").onclick=()=>grade(true);
 $("#rvNg").onclick=()=>grade(false);
 $("#rvClose").onclick=endReview;
@@ -675,7 +814,7 @@ $("#qSel").onchange=e=>ls.set("pr_q",e.target.value);
 $("#delMastered").onclick=async()=>{
   const ms=cards.filter(c=>c.mastered); if(!ms.length) return;
   if(!confirm(t("confirmDelM",{n:ms.length}))) return;
-  for(const c of ms) await dbDel(c.id);
+  for(const c of ms) await delCard(c);
   toast(t("deletedN",{n:ms.length})); reload();
 };
 $("#lang").onchange=e=>{lang=e.target.value; ls.set("pr_lang",lang); applyLang();};
@@ -684,7 +823,8 @@ const d2b=async d=>(await fetch(d)).blob();
 $("#backup").onclick=async()=>{
   const out=[]; for(const c of cards) out.push({...c,q:await b2d(c.q),a:c.a?await b2d(c.a):null});
   const name=`45recall-backup-${new Date().toISOString().slice(0,10)}.json`;
-  const json=JSON.stringify({app:"photorecall",v:1,intervals:intervals(),cards:out});
+  const pages=[]; for(const p of await pageAll()) pages.push({id:p.id,created:p.created,blob:await b2d(p.blob)});
+  const json=JSON.stringify({app:"photorecall",v:2,intervals:intervals(),cards:out,pages});
   const file=new File([json],name,{type:"application/json"});
   if(navigator.canShare&&navigator.canShare({files:[file]})){ try{ await navigator.share({files:[file]}); return; }catch(e){ if(e.name==="AbortError") return; } }
   saveFile(json,name,"application/json");
@@ -693,6 +833,7 @@ $("#restoreFile").onchange=async e=>{
   const f=e.target.files[0]; e.target.value=""; if(!f) return;
   try{
     const data=JSON.parse(await f.text()); let n=0;
+    for(const p of data.pages||[]){ await pagePut({id:p.id,created:p.created,blob:await d2b(p.blob)}); }
     for(const c of data.cards||[]){ c.q=await d2b(c.q); c.a=c.a?await d2b(c.a):null; await dbPut(c); n++; }
     toast(t("restored",{n})); reload();
   }catch(err){ alert("Error: "+err.message); }

diff --git a/sw.js b/sw.js
@@ -1,4 +1,4 @@
-const C="recall-v2";
+const C="recall-v3";
 const FILES=["./","index.html","manifest.json","icon-192.png","icon-512.png"];
 self.addEventListener("install",e=>{e.waitUntil(caches.open(C).then(c=>c.addAll(FILES)));self.skipWaiting();});
 self.addEventListener("activate",e=>{e.waitUntil(caches.keys().then(ks=>Promise.all(ks.filter(x=>x!==C).map(x=>caches.delete(x)))));self.clients.claim();});
